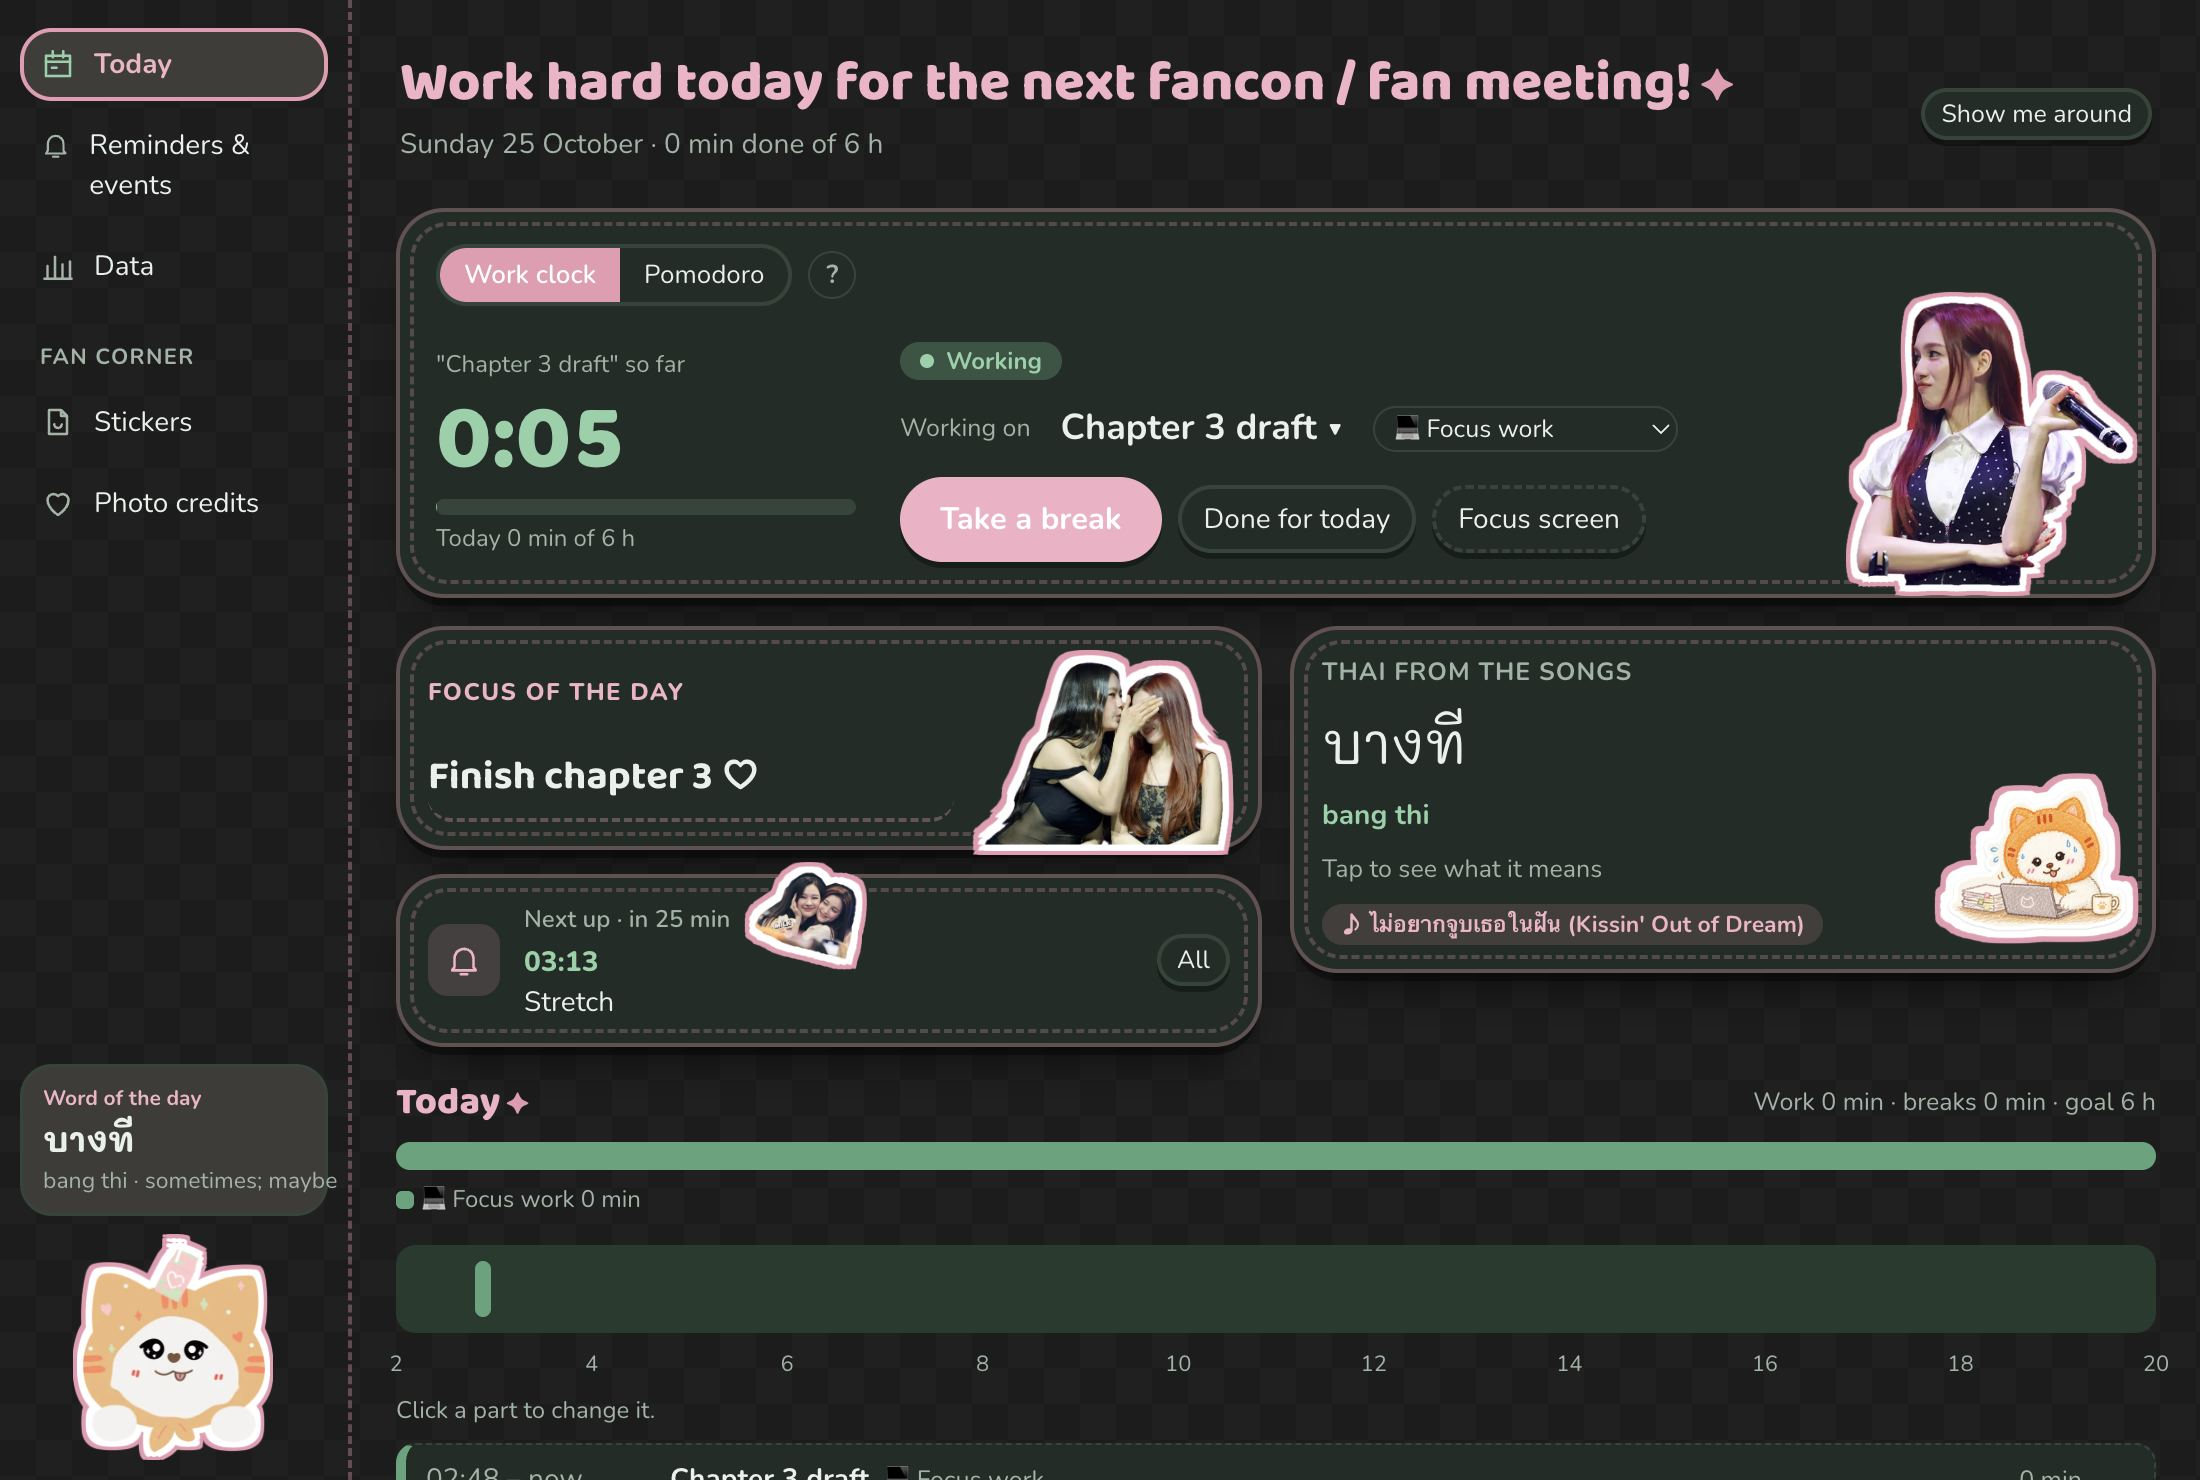
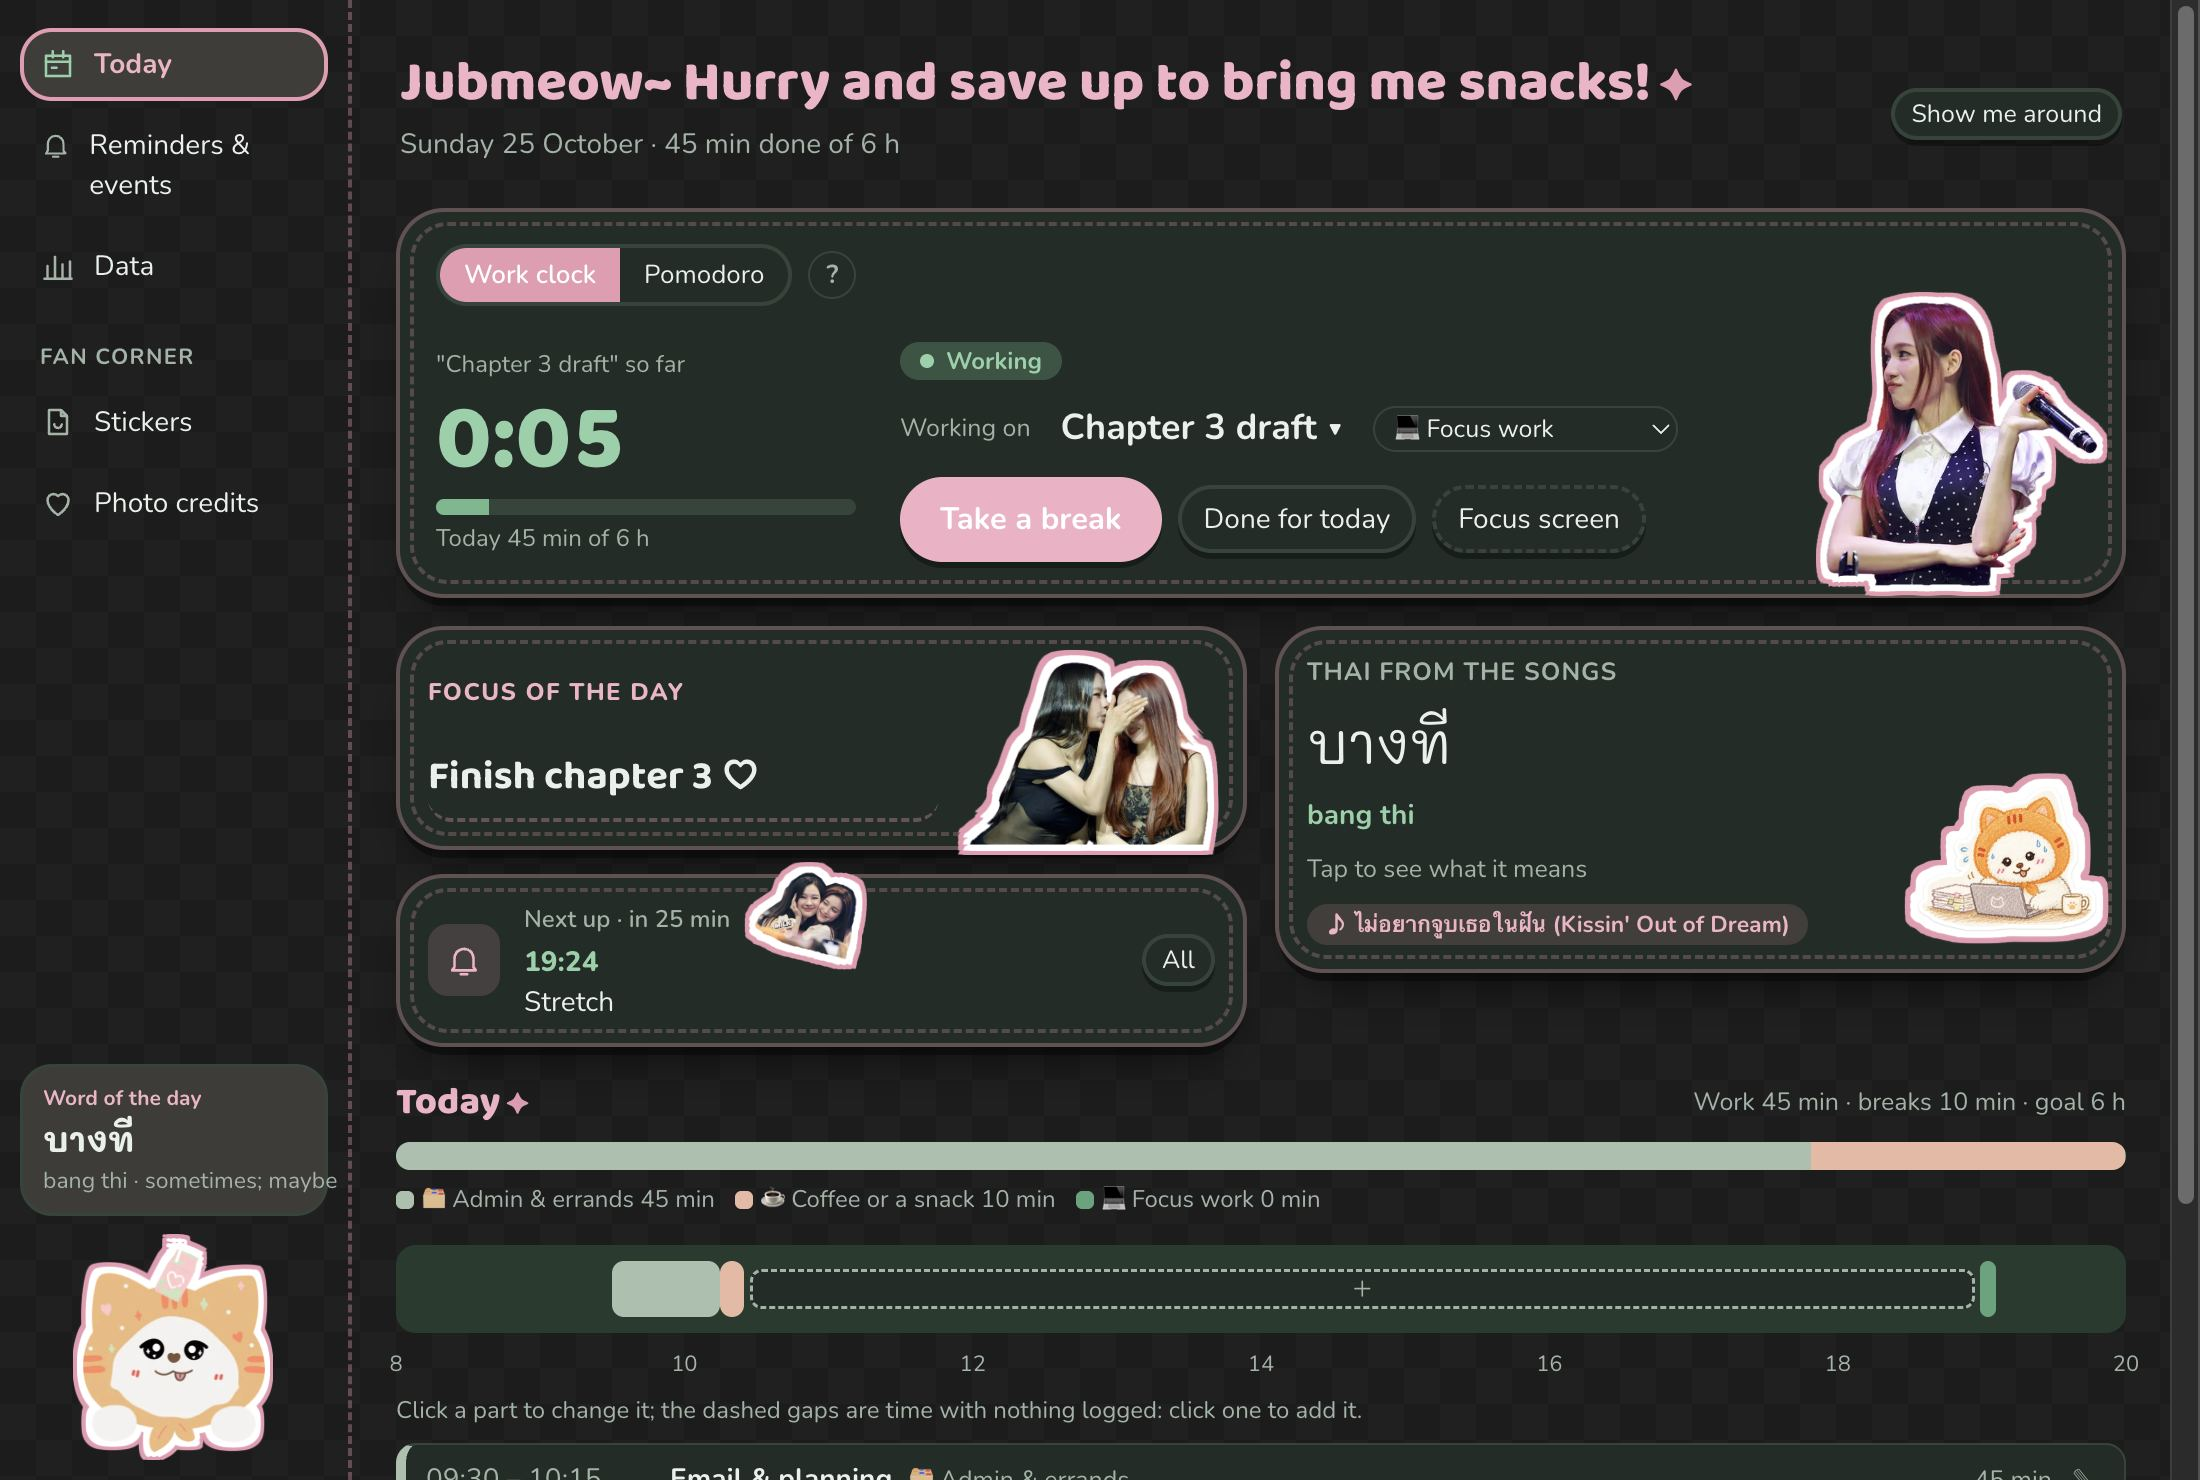
Demo rebuilt: Carry on after all, picking a task and Back work in the demo

diff --git a/demo/demo-host.js b/demo/demo-host.js
@@ -119,11 +119,15 @@
     "back-next": () => { if (work.status().onBreak) work.endBreak({ breakEvery: S.breakEvery }); if (S.keep === "both") pomoStart(); },
     "pomo-break-now": () => { const p = pomoLengths(); pomoNow = { ...(pomoNow || {}), kind: "focus", phase: "break", endsAt: Date.now() + p.rest * M, round: pomoNow?.round || 1, every: p.every }; },
     "start-day": () => work.startDay(), "start": () => work.startDay(), "skip-day": () => work.skipDay(),
-    "done-today": () => work.endDay(), "end-day": () => work.endDay(), "done": () => work.endDay(),
+    // 收工, and "Carry on after all" (the app: work.endDay / work.startDay; the round stops, as the app's alarm does)
+    "done-today": () => { work.endDay(); pomoNow = null; }, "end-day": () => { work.endDay(); pomoNow = null; }, "done": () => { work.endDay(); pomoNow = null; },
+    "resume-day": () => work.startDay(),
+    "back-hold": () => { if (work.status().onBreak) work.endBreak({ breakEvery: S.breakEvery }); if (pomoNow && pomoNow.phase !== "focus") pomoNow = null; },
+    "switch": (id) => work.setName(String(id || "")),
     "whats-new-seen": () => {}, "focus-screen": () => { if (!EMBED) alert(T("The focus screen fills your whole screen in the app.", "在 App 裡，專注全螢幕會佔滿整個螢幕。")); },
   };
   const act = (action, id) => {
-    try { if (ACT[action]) ACT[action](id); else if (typeof work[action] === "function") work[action](id); } catch (e) { console.warn("demo:", action, e.message); }
+    try { if (ACT[action]) ACT[action](id); else if (typeof work[action] === "function") work[action](id); else console.warn("demo: nothing does", action); } catch (e) { console.warn("demo:", action, e.message); }
     later(tellWork);
   };
   const setText = (key, value) => {
